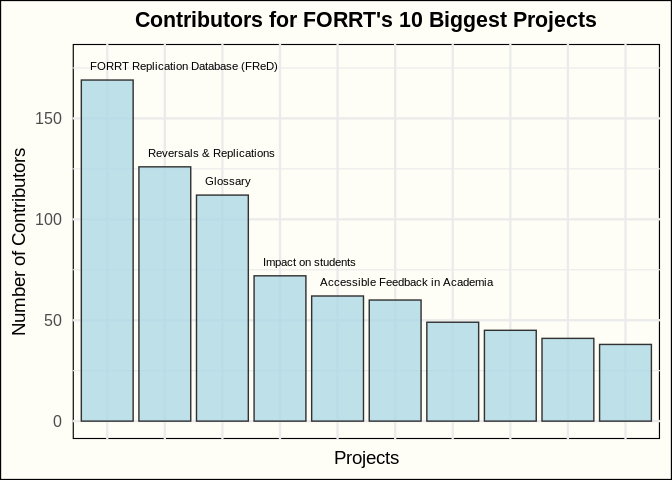
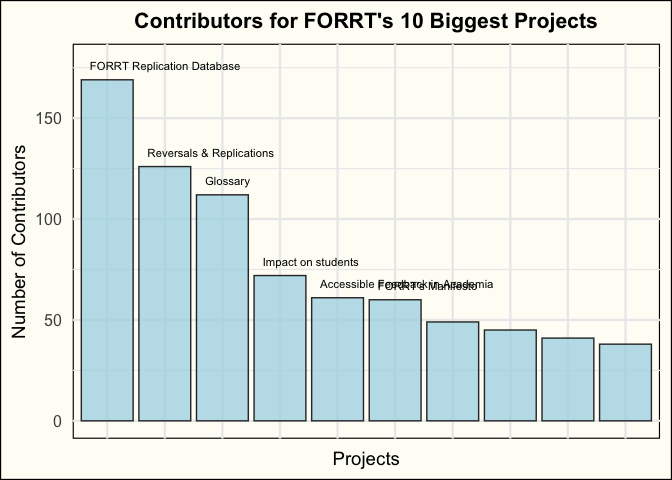
deploy: forrtproject/forrtproject.github.io@1bad4128281e5505b6dec0f6c603132ea9c95201

diff --git a/contributor-analysis/index.html b/contributor-analysis/index.html
@@ -40,11 +40,11 @@
 <a class=dropdown-item href=/FReD/index.html target=_blank rel=noopener><span>FReD R-Package</span></a>
 <a class=dropdown-item href=/reversals><span>Replications & Reversals</span></a>
 <a class=dropdown-item href=/positive-changes-replication-crisis><span>Positive Changes from the Replication Crisis</span></a>
-<a class=dropdown-item href=/replication-hub/submit><span>Submit a replication to FReD</span></a></div></li><li class="nav-item px-2"><a class=nav-link href=/publications/><span>Publications</span></a></li><li class=nav-item><a href=/about/get-involved/ class="nav-link btn btn-primary nav-btn">🚀&nbsp;Get&nbsp;involved!</a></li></ul></div><ul class="nav-icons navbar-nav flex-row ml-auto d-flex pl-md-2"><li class=nav-item><a class="nav-link js-search" href=# alt="Opens search bar"><i class="fas fa-search" aria-hidden=true></i></a></li><li class=nav-item><a class=nav-link href=https://github.com/forrtproject/forrt alt="Link to FORRT's GitHub repository"><i class="fab fa-github" aria-hidden=true></i></a></li></ul></div></nav><div class="universal-wrapper pt-3"><h1>FORRT Contributor Analyses</h1></div><div class=universal-wrapper><div class=article-style><p>As of 02 May, 2025, FORRT has 85 completed and ongoing projects/teams
-with a total of 584 contributors across these projects.<br>There is an average (mean) of 2.34 contributions per person across all
+<a class=dropdown-item href=/replication-hub/submit><span>Submit a replication to FReD</span></a></div></li><li class="nav-item px-2"><a class=nav-link href=/publications/><span>Publications</span></a></li><li class=nav-item><a href=/about/get-involved/ class="nav-link btn btn-primary nav-btn">🚀&nbsp;Get&nbsp;involved!</a></li></ul></div><ul class="nav-icons navbar-nav flex-row ml-auto d-flex pl-md-2"><li class=nav-item><a class="nav-link js-search" href=# alt="Opens search bar"><i class="fas fa-search" aria-hidden=true></i></a></li><li class=nav-item><a class=nav-link href=https://github.com/forrtproject/forrt alt="Link to FORRT's GitHub repository"><i class="fab fa-github" aria-hidden=true></i></a></li></ul></div></nav><div class="universal-wrapper pt-3"><h1>FORRT Contributor Analyses</h1></div><div class=universal-wrapper><div class=article-style><p>Currently, FORRT has 82 completed and ongoing projects with a total of
+651 contributors across these projects.<br>There is an average (mean) of 2.06 contributions per person across all
 FORRT projects, and the average number of contributors per project is
-15.76. Team CRediT is actively working on formalizing and updating
-contributorship information.</p><p><img src=/contributor-analysis/Projects-Plot-Figure-1.png></p><p><img src=/contributor-analysis/Role-Plot-Figure-1.png></p><p><img src=/contributor-analysis/network%20graph-1.png></p></div></div><script src=https://cdnjs.cloudflare.com/ajax/libs/jquery/3.5.1/jquery.min.js integrity="sha256-9/aliU8dGd2tb6OSsuzixeV4y/faTqgFtohetphbbj0=" crossorigin=anonymous></script><script src=https://cdnjs.cloudflare.com/ajax/libs/jquery.imagesloaded/4.1.4/imagesloaded.pkgd.min.js integrity="sha256-lqvxZrPLtfffUl2G/e7szqSvPBILGbwmsGE1MKlOi0Q=" crossorigin=anonymous></script><script src=https://cdnjs.cloudflare.com/ajax/libs/jquery.isotope/3.0.6/isotope.pkgd.min.js integrity="sha256-CBrpuqrMhXwcLLUd5tvQ4euBHCdh7wGlDfNz8vbu/iI=" crossorigin=anonymous></script><script src=https://cdnjs.cloudflare.com/ajax/libs/fancybox/3.5.7/jquery.fancybox.min.js integrity="sha256-yt2kYMy0w8AbtF89WXb2P1rfjcP/HTHLT7097U8Y5b8=" crossorigin=anonymous></script><script src=https://cdnjs.cloudflare.com/ajax/libs/instant.page/5.1.0/instantpage.min.js integrity="sha512-1+qUtKoh9XZW7j+6LhRMAyOrgSQKenQ4mluTR+cvxXjP1Z54RxZuzstR/H9kgPXQsVB8IW7DMDFUJpzLjvhGSQ==" crossorigin=anonymous></script><script src=https://cdnjs.cloudflare.com/ajax/libs/mermaid/8.4.8/mermaid.min.js integrity="sha256-lyWCDMnMeZiXRi7Zl54sZGKYmgQs4izcT7+tKc+KUBk=" crossorigin=anonymous title=mermaid></script><script src=https://cdnjs.cloudflare.com/ajax/libs/highlight.js/10.1.2/highlight.min.js integrity="sha512-7t8APmYpzEsZP7CYoA7RfMPV9Bb+PJHa9x2WiUnDXZx3XHveuyWUtvNOexhkierl5flZ3tr92dP1mMS+SGlD+A==" crossorigin=anonymous></script><script src=https://cdnjs.cloudflare.com/ajax/libs/highlight.js/10.1.2/languages/r.min.js></script><script src=https://cdnjs.cloudflare.com/ajax/libs/leaflet/1.5.1/leaflet.js integrity="sha256-EErZamuLefUnbMBQbsEqu1USa+btR2oIlCpBJbyD4/g=" crossorigin=anonymous></script><script>const code_highlighting=!0</script><script>const search_config={indexURI:"/index.json",minLength:1,threshold:.3},i18n={no_results:"No results found",placeholder:"Search...",results:"results found"},content_type={post:"Posts",project:"Projects",publication:"Publications",talk:"Talks",slides:"Slides"}</script><script id=search-hit-fuse-template type=text/x-template>
+16.00. Team CRediT is actively working on formalizing and updating
+contributorship information.</p><p><img alt="Projects Plot Figure" src=/contributor-analysis/Projects-Plot-Figure-1.png></p><p><img alt="Roles Plot Figure" src=Roles-Plot-Figure-1.png></p></div></div><script src=https://cdnjs.cloudflare.com/ajax/libs/jquery/3.5.1/jquery.min.js integrity="sha256-9/aliU8dGd2tb6OSsuzixeV4y/faTqgFtohetphbbj0=" crossorigin=anonymous></script><script src=https://cdnjs.cloudflare.com/ajax/libs/jquery.imagesloaded/4.1.4/imagesloaded.pkgd.min.js integrity="sha256-lqvxZrPLtfffUl2G/e7szqSvPBILGbwmsGE1MKlOi0Q=" crossorigin=anonymous></script><script src=https://cdnjs.cloudflare.com/ajax/libs/jquery.isotope/3.0.6/isotope.pkgd.min.js integrity="sha256-CBrpuqrMhXwcLLUd5tvQ4euBHCdh7wGlDfNz8vbu/iI=" crossorigin=anonymous></script><script src=https://cdnjs.cloudflare.com/ajax/libs/fancybox/3.5.7/jquery.fancybox.min.js integrity="sha256-yt2kYMy0w8AbtF89WXb2P1rfjcP/HTHLT7097U8Y5b8=" crossorigin=anonymous></script><script src=https://cdnjs.cloudflare.com/ajax/libs/instant.page/5.1.0/instantpage.min.js integrity="sha512-1+qUtKoh9XZW7j+6LhRMAyOrgSQKenQ4mluTR+cvxXjP1Z54RxZuzstR/H9kgPXQsVB8IW7DMDFUJpzLjvhGSQ==" crossorigin=anonymous></script><script src=https://cdnjs.cloudflare.com/ajax/libs/mermaid/8.4.8/mermaid.min.js integrity="sha256-lyWCDMnMeZiXRi7Zl54sZGKYmgQs4izcT7+tKc+KUBk=" crossorigin=anonymous title=mermaid></script><script src=https://cdnjs.cloudflare.com/ajax/libs/highlight.js/10.1.2/highlight.min.js integrity="sha512-7t8APmYpzEsZP7CYoA7RfMPV9Bb+PJHa9x2WiUnDXZx3XHveuyWUtvNOexhkierl5flZ3tr92dP1mMS+SGlD+A==" crossorigin=anonymous></script><script src=https://cdnjs.cloudflare.com/ajax/libs/highlight.js/10.1.2/languages/r.min.js></script><script src=https://cdnjs.cloudflare.com/ajax/libs/leaflet/1.5.1/leaflet.js integrity="sha256-EErZamuLefUnbMBQbsEqu1USa+btR2oIlCpBJbyD4/g=" crossorigin=anonymous></script><script>const code_highlighting=!0</script><script>const search_config={indexURI:"/index.json",minLength:1,threshold:.3},i18n={no_results:"No results found",placeholder:"Search...",results:"results found"},content_type={post:"Posts",project:"Projects",publication:"Publications",talk:"Talks",slides:"Slides"}</script><script id=search-hit-fuse-template type=text/x-template>
       <div class="search-hit" id="summary-{{key}}">
       <div class="search-hit-content">
         <div class="search-hit-name">
